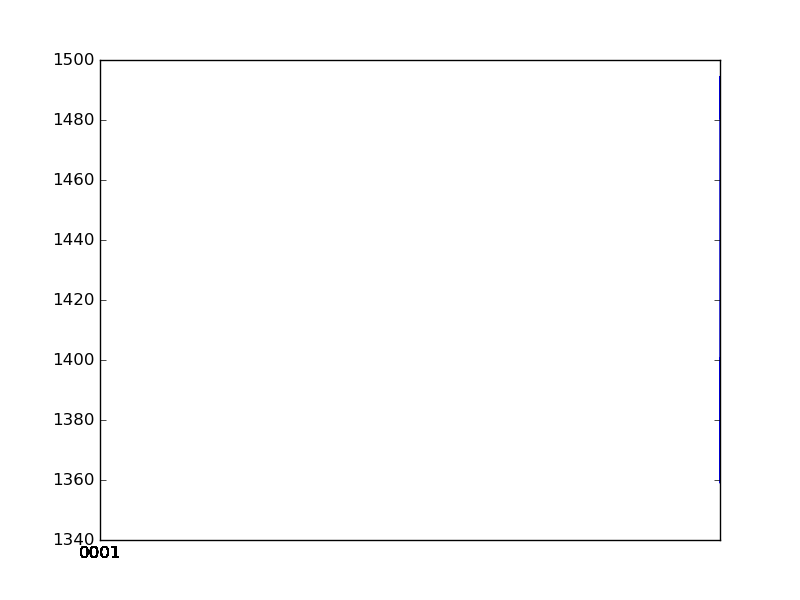
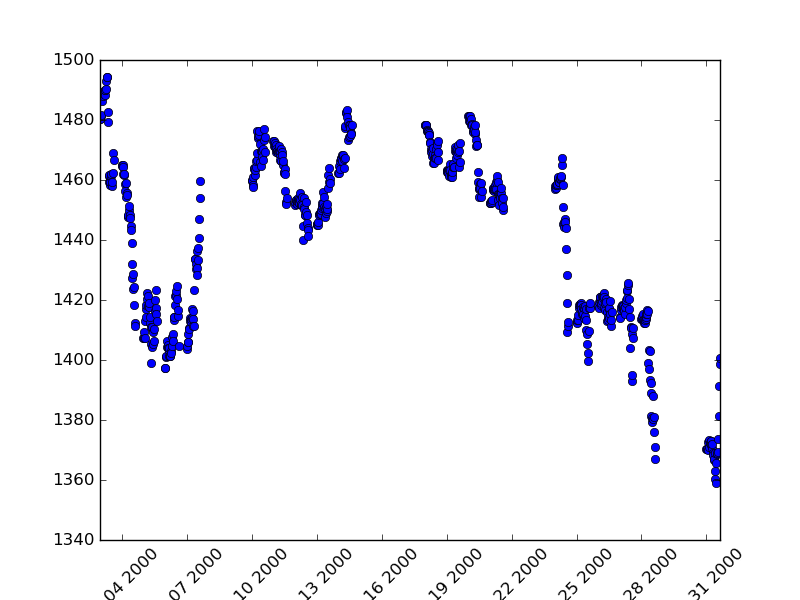
fix

diff --git a/analize/charting_data.py b/analize/charting_data.py
@@ -1,11 +1,25 @@
 import matplotlib.pyplot as plt
+import numpy as np
 import pandas as pd
+
+from matplotlib.dates import MinuteLocator, HourLocator,\
+    DayLocator, MONDAY, DateFormatter, WeekdayLocator
 
 
 df = pd.read_json('for_monthly_charts.json',)
-for i in range(len(df.columns)):
+for i in range(1):  # len(df.columns)):
     price = pd.DataFrame(df.ix[1,i])
     price['DT'] = pd.to_datetime(price['DT'])
-    plt.plot(price["DT"], price["C"])
+
+    fig = plt.figure()
+    ax1 = plt.subplot2grid((1,1), (0,0))
+    ax1.plot_date(price["DT"], price["C"])
+    for label in ax1.xaxis.get_ticklabels():
+        label.set_rotation(45)
+
+    # x_min = min(price["DT"])
+    # x_max = max(price["DT"])
+    # plt.xticks(np.arange(x_min.day, x_max.day, 1.0))
     name = "{}-{}.png".format(price['DT'][0].year, price['DT'][0].month)
     plt.savefig(name)
+
